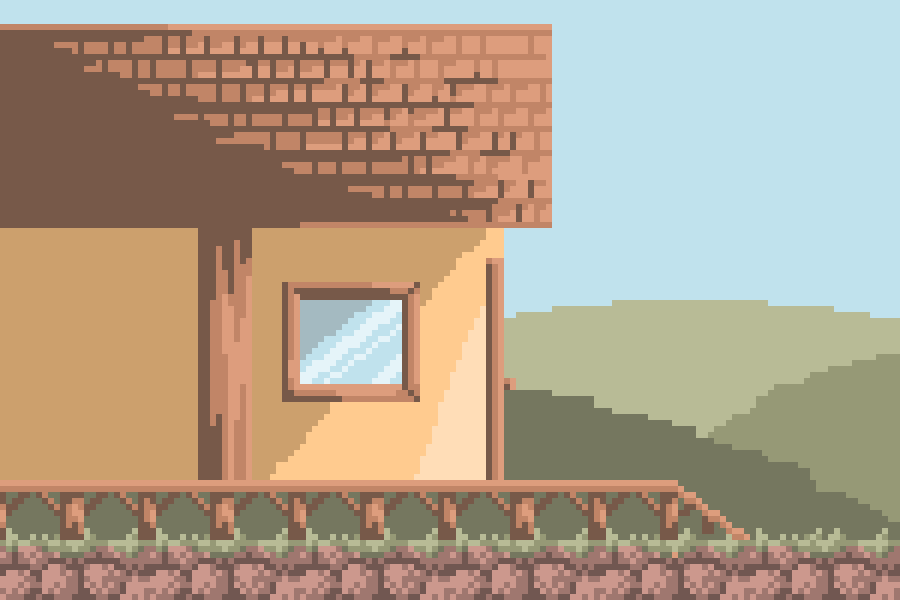
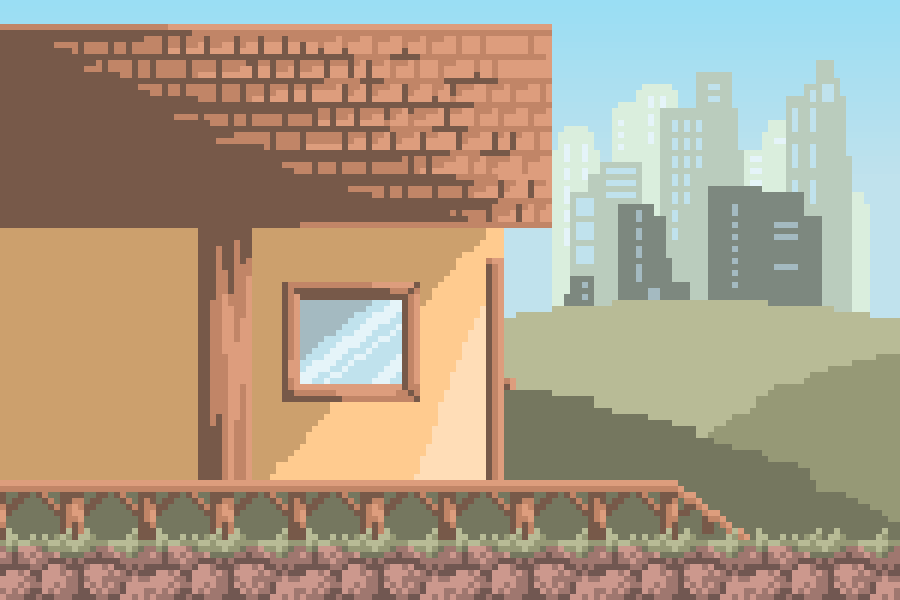
Modes, stairs, scenes og baggrunde
Flyttede modes ind i deres egen fil. Stairs er ned og op. Blev færdige med alle baggrunde og clouds sprite sheet er færdigt. Begyndte så på scener.

diff --git a/mainSketch.js b/mainSketch.js
@@ -4,12 +4,15 @@ let days = 0;
 
 //Hvilken tilstand programmet er i feks. "menu" mode eller "game" mode
 let mode = 0;
-let imageBG;
-let dirt;
+
+//Hvilken scene 
+let scene = 0;
+
 
 //Preloader billederne så der ikke er delay.
 function preload(){
-  imageBG = loadImage("image/background3.png");
+  house = loadImage("image/background3.png");
+  
   dirt = loadImage("image/Dirt.png");
 }
 
@@ -27,51 +30,31 @@ function draw() {
 
   //Menuen
   if (mode == 0) {
-    //I menuen sættes timeren til nul, for den tæller nemlig hele tiden
-    minutes, hours, days = 0;
-
-    //Knappen
-    background(180);
-
-    //Hover effect. Når markøren er over knappen så skifter baggrunden.
-    if (mode == 0 && mouseX >= 300 && mouseX <= 500 && mouseY >= 336 && mouseY <= 386) {
-      background(150);
-    }
-
-    //Selve knappen
-    rectMode(CENTER);
-    noStroke();
-    rect(width / 2, height / 5 * 3, 200, 50)
+    //Menu 'funktionen'
+    menu();
   }
 
   //Spil
   else if (mode == 1) {
-    image(imageBG,0,0,);
-    textSize(35);
-
-    //Kalder på funktionen der skriver tiden
-    drawTime();
-
-    //Når timeren når over 18 så går det videre til game over
-    if (hours > 18) {
-      mode++
+    if (scene == 0){
+      image(house,0,0,);
     }
-    drawSprites();
-    movement();
-    limits();
-    stairs();
-    image(dirt,0,0)
-  }
+      else if(scene == 0){
 
+      }
+
+    //spil 'funktionen'
+    game();
+  }
+  
   //Game over
   else if (mode == 2) {
-    background(0);
-
-    //Genstartknappen
-    rect(width - 200, height - 50, 200, 50)
+    //spillet der slutter 'funktionen'
+    gameOver();
   }
 }
 
+//Menu knappen
 function mouseClicked() {
   //'Klik-området' for knappen i menuen
   if (mode == 0 && mouseX >= 300 && mouseX <= 500 && mouseY >= 336 && mouseY <= 386) {

diff --git a/fun/bevægelse.js b/fun/bevægelse.js
@@ -44,6 +44,7 @@ function movement() {
     }
 }
 
+
 function limits() {
   //Hvis spilleren rammer højre eller venstre side af canvas,
   //så tegnes de ved kanten igen.
@@ -56,21 +57,26 @@ function limits() {
   }
 }
 
+
 function stairs() {
   //når funktion kaldes så laver den boolean 'onStairs'
   let onStairs = false
 
-  //hvis spilleren er 
-  if (player.position.x >= 677+25 & player.position.x <= 750+60 & player.position.y <= 540-140/2){
+
+// & player.position.y <= 540-140/2
+
+  //hvis spilleren står ved trappen så er de på trappen og går ned 
+  if (player.position.x >= 677+25 & player.position.x <= 750+60){
     onStairs = true
-    if (keyIsDown(RIGHT_ARROW) & player.position.y <=540) {
+
+    //ned
+    if (keyIsDown(RIGHT_ARROW) & player.position.y <= 540-140/2) {
       player.position.y = player.position.y+1.25;
+    }
+
+    //op
+    if (keyIsDown(LEFT_ARROW) & player.position.y >= 480-140/2) {
+      player.position.y = player.position.y-1.24;
     }
   }
 }
-
-  if (player.position.x < 750) {
-    if (keyIsDown(LEFT_ARROW)) {
-      player.position.y = player.position.y-1;
-    }
-  }

diff --git a/fun/modes.js b/fun/modes.js
@@ -1,0 +1,44 @@
+function menu(){
+        //I menuen sættes timeren til nul, for den tæller nemlig hele tiden
+        minutes, hours, days = 0;
+
+        //Knappen
+        background(180);
+    
+        //Hover effect. Når markøren er over knappen så skifter baggrunden.
+        if (mode == 0 && mouseX >= 300 && mouseX <= 500 && mouseY >= 336 && mouseY <= 386) {
+          background(150);
+        }
+    
+        //Selve knappen
+        rectMode(CENTER);
+        noStroke();
+        rect(width / 2, height / 5 * 3, 200, 50)
+}
+
+function game(){
+    textSize(35);
+
+    //Kalder på funktionen der skriver tiden
+    drawTime();
+
+    //Når timeren når over 18 så går det videre til game over
+    if (hours > 18) {
+      mode++
+    }
+    drawSprites();
+    movement();
+    limits();
+    stairs();
+    image(dirt,0,0)
+    
+}
+
+function gameOver(){
+    background(0);
+
+    //Genstartknappen
+    rect(width - 200, height - 50, 200, 50);
+    player.position.x = 520+100/2;
+    player.position.y = 480-140/2;
+}

diff --git a/index.html b/index.html
@@ -15,6 +15,8 @@
      <!-- link til mine funktioner -->
      <script src="fun/time.js" type="text/javascript"></script>
      <script src="fun/bevægelse.js" type="text/javascript"></script>
+     <script src="fun/modes.js" type="text/javascript"></script>
+     <!-- link til mine 'objekter' -->
    </head>
    <body>
    </body>
